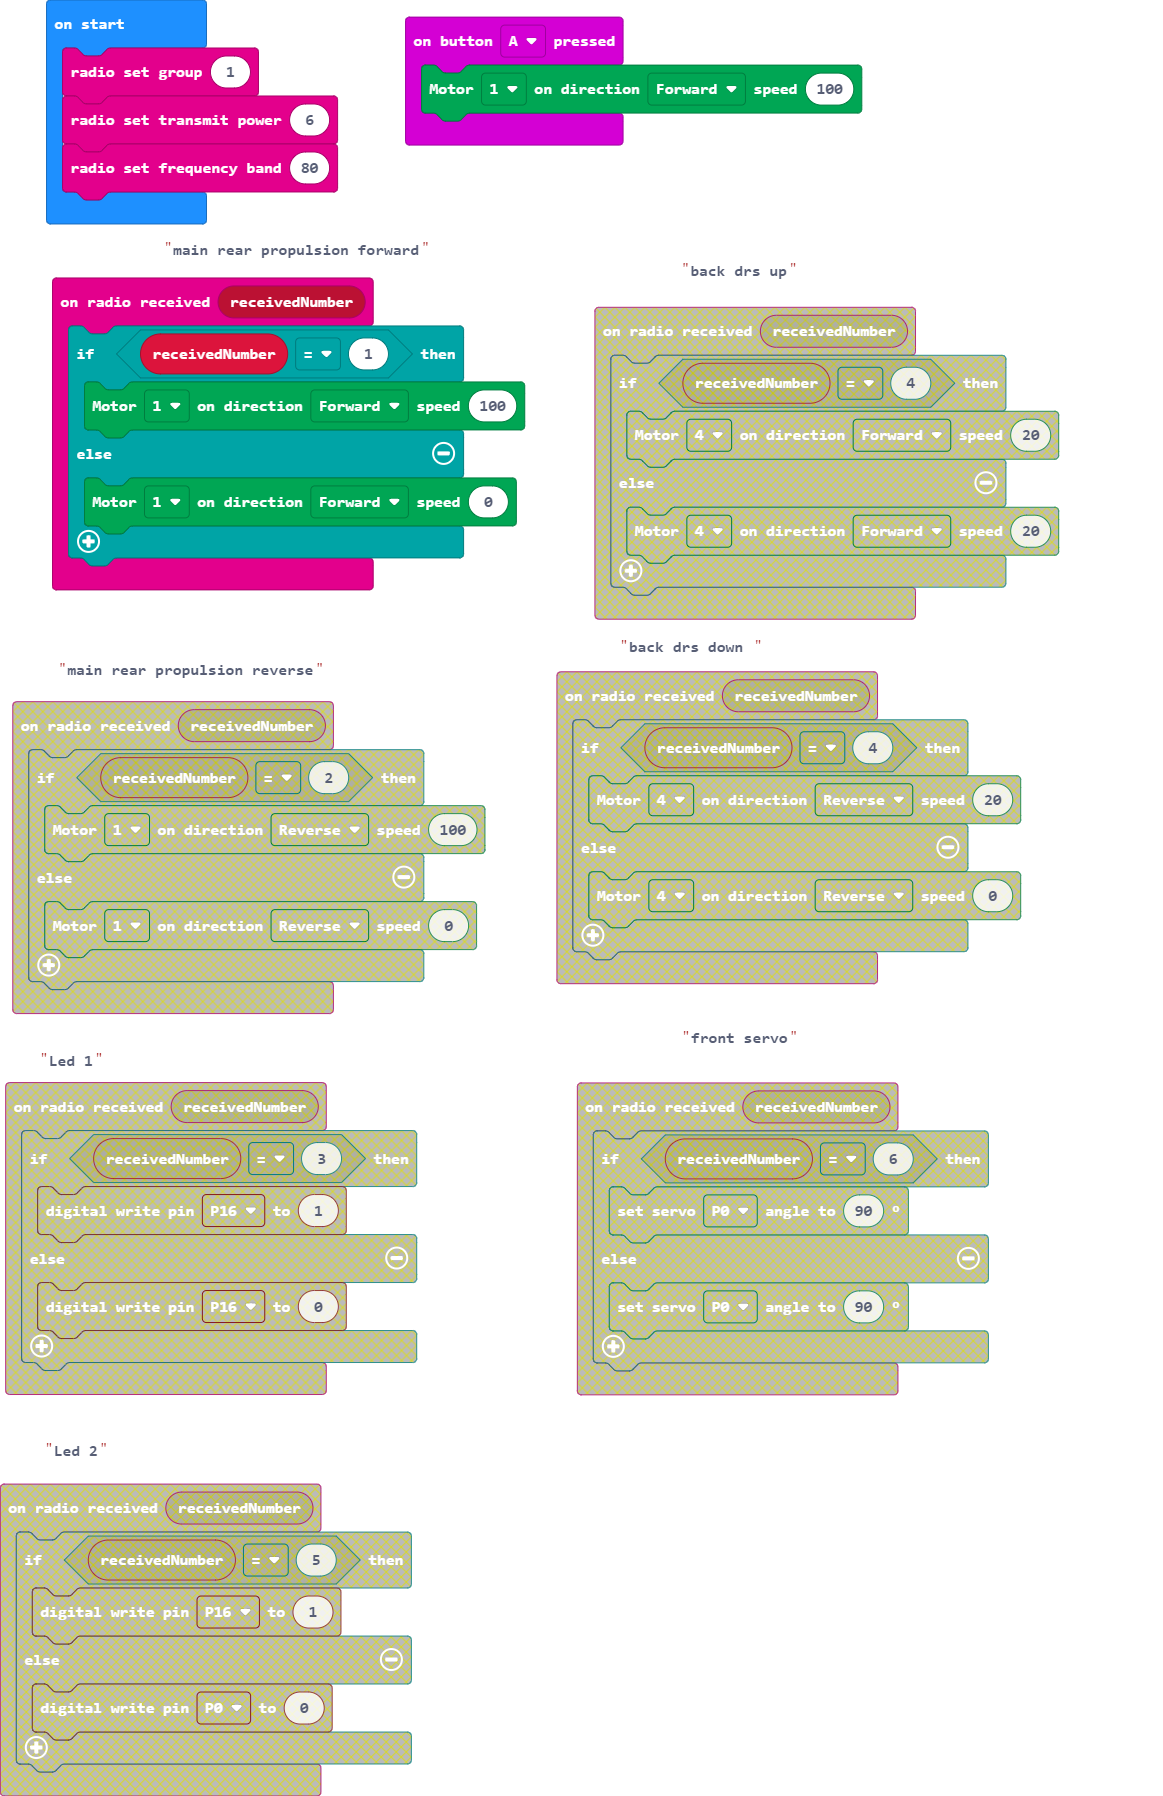
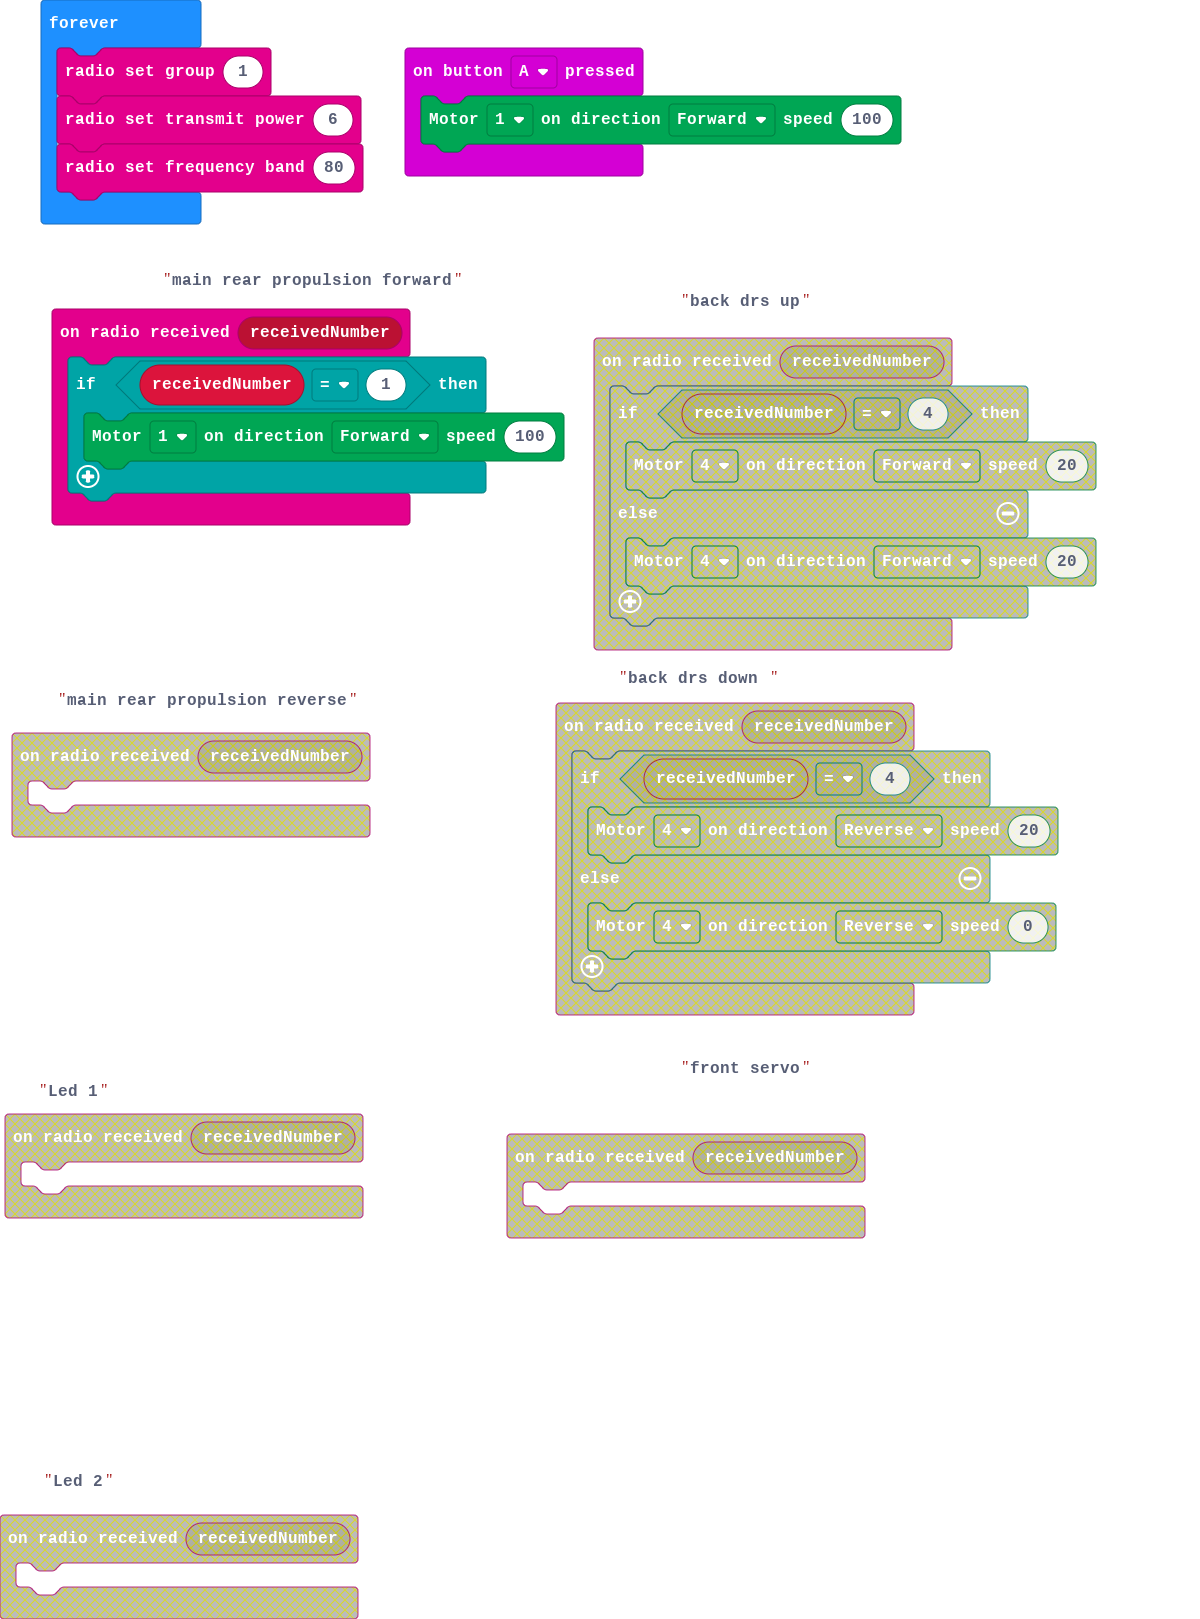
Update main.blocks, main.ts

diff --git a/main.ts b/main.ts
@@ -1,13 +1,13 @@
 radio.onReceivedNumber(function (receivedNumber) {
     if (receivedNumber == 1) {
         Kitronik_Robotics_Board.motorOn(Kitronik_Robotics_Board.Motors.Motor1, Kitronik_Robotics_Board.MotorDirection.Forward, 100)
-    } else {
-        Kitronik_Robotics_Board.motorOn(Kitronik_Robotics_Board.Motors.Motor1, Kitronik_Robotics_Board.MotorDirection.Forward, 0)
     }
 })
 input.onButtonPressed(Button.A, function () {
     Kitronik_Robotics_Board.motorOn(Kitronik_Robotics_Board.Motors.Motor1, Kitronik_Robotics_Board.MotorDirection.Forward, 100)
 })
-radio.setGroup(1)
-radio.setTransmitPower(6)
-radio.setFrequencyBand(80)
+basic.forever(function () {
+    radio.setGroup(1)
+    radio.setTransmitPower(6)
+    radio.setFrequencyBand(80)
+})
